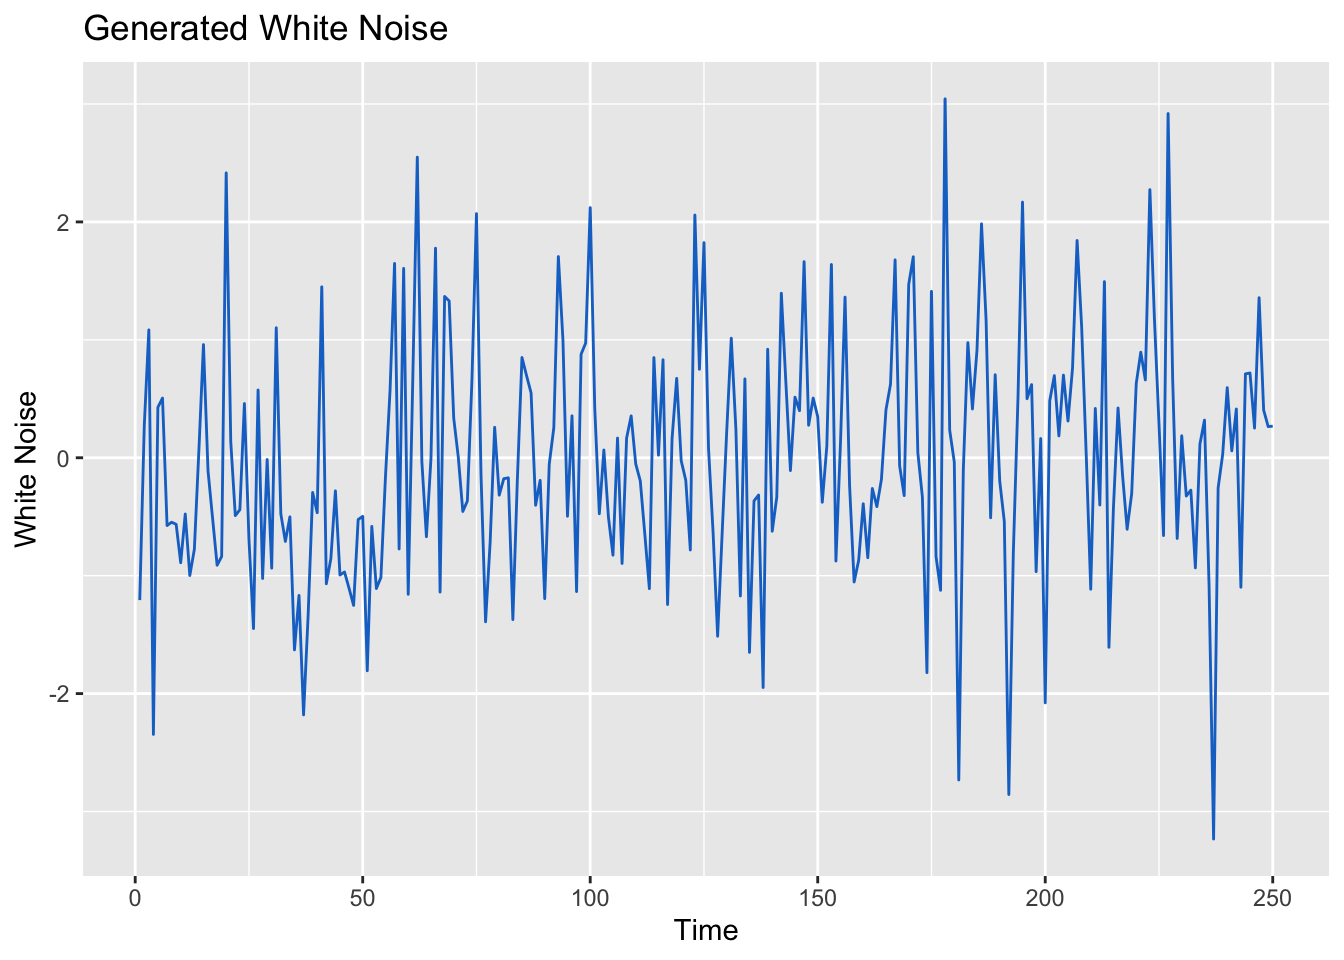
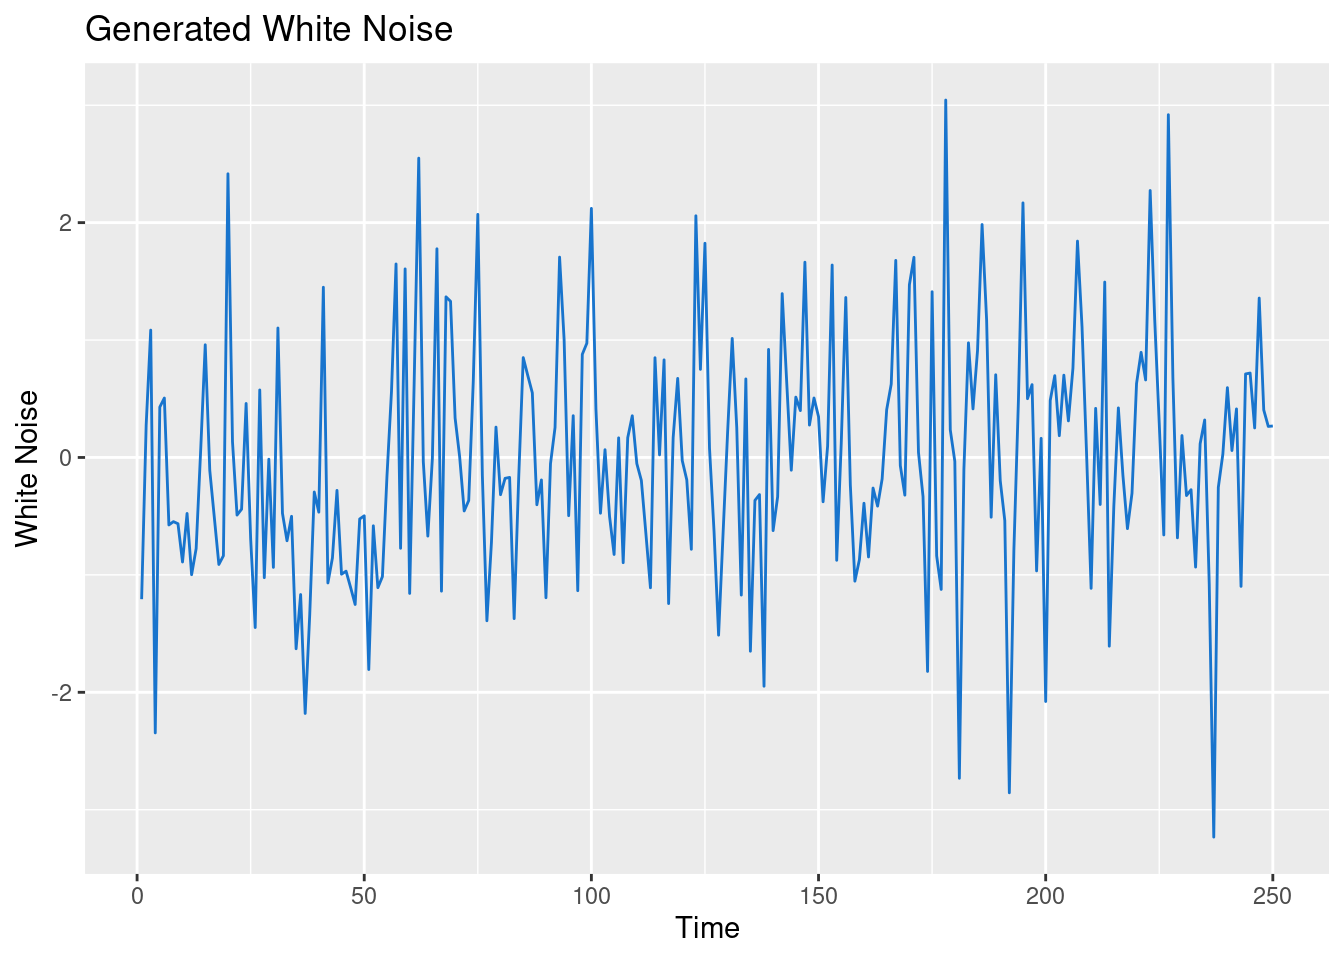
small changes due to change of quarto

diff --git a/docs/posts/autocorrelation/index.html b/docs/posts/autocorrelation/index.html
@@ -236,7 +236,7 @@ code span.wa { color: #60a0b0; font-weight: bold; font-style: italic; } /* Warni
 <p>This post is to set up the basic concepts of time-series analysis.</p>
 <section id="autocovariance-autocorrelation" class="level1">
 <h1>Autocovariance &amp; autocorrelation</h1>
-<p>Auto-correlation as the name indicates is the correlation of the time-series with itself, more specifically with a lag version of itself.</p>
+<p>Autocorrelation as the name indicates is the correlation of the time-series with itself, more specifically with a lag version of itself.</p>
 <p>Let’s consider <span class="math inline">\(\{X_t\}\)</span> a time series.</p>
 <ul>
 <li>Then the mean function of <span class="math inline">\(\{X_t\}\)</span> (the first moment) is defined as <span class="math inline">\(\mu_t = \textbf{E}(X_t)\)</span>. In other words, <span class="math inline">\(\mu_t\)</span> is the expected value of the time series at point t.<br>
@@ -244,7 +244,7 @@ code span.wa { color: #60a0b0; font-weight: bold; font-style: italic; } /* Warni
 <li>The Variance of the time series is defined as <span class="math inline">\(\sigma_t ^2 = Var(X_t) = \textbf{E}[(X_t - \mu_t)^2]\)</span>.</li>
 <li>In general, <span class="math inline">\(\mu_t\)</span> and <span class="math inline">\(\sigma_t ^2\)</span> are different at different point in time.</li>
 </ul>
-<p>Now, we define the <strong>auto-covariance</strong> function of the time series as <span class="math display">\[\gamma(s, t) = Cov(X_s, X_t) = \textbf{E}[(X_s - \mu_s)(X_t - \mu_t)]\]</span>. In the same vein, we define the <strong>auto-correlation</strong> function of the time series as <span class="math display">\[\rho(s,t) = Corr(X_s, X_t) = \frac {\gamma (s, t)}{\sigma_s \sigma_t} = \frac{Cov(X_s, X_t)}{\sqrt{Var(X_s) Var(X_t)}}\]</span></p>
+<p>Now, we define the <strong>autocovariance</strong> function of the time series as <span class="math display">\[\gamma(s, t) = Cov(X_s, X_t) = \textbf{E}[(X_s - \mu_s)(X_t - \mu_t)]\]</span>. In the same vein, we define the <strong>autocorrelation</strong> function of the time series as <span class="math display">\[\rho(s,t) = Corr(X_s, X_t) = \frac {\gamma (s, t)}{\sigma_s \sigma_t} = \frac{Cov(X_s, X_t)}{\sqrt{Var(X_s) Var(X_t)}}\]</span></p>
 <p>Autocovariance and autocorrelation measure the linear correlation between between two points <span class="math inline">\(X_s\)</span> and <span class="math inline">\(X_t\)</span> on the same time-series.</p>
 <p>Few properties of autocavariance and autocorrelation of time-series</p>
 <ul>
@@ -342,7 +342,7 @@ Autocorrelations of series 'milk$milk_prod_per_cow_kg', by lag
 <section id="white-noise" class="level1">
 <h1>White Noise</h1>
 <p>White noise is a special type of time-series and a special case of stationarity. The concept emerge when studying <strong>Random Walk</strong>. <span class="math inline">\(\{X_t\}\)</span> is a random-walk if it satisfies the equation:</p>
-<p><span class="math display">\[X_t = X_{t-1} + W_t\]</span> (<strong>?@eq-rw1</strong>) where <span class="math inline">\(\{W_t\}\)</span> is a white-noise. In other words, <span class="math inline">\(W_t \sim iid N(0, \sigma_w^2)\)</span></p>
+<p><span id="eq-rw1"><span class="math display">\[X_t = X_{t-1} + W_t \tag{1}\]</span></span> where <span class="math inline">\(\{W_t\}\)</span> is a white-noise. In other words, <span class="math inline">\(W_t \sim iid N(0, \sigma_w^2)\)</span></p>
 <p><span class="math inline">\(\{W_t\}\)</span> is a white-noise if</p>
 <ul>
 <li><span class="math inline">\(E[W_t] = \mu\)</span> is a constant for all t</li>

diff --git a/docs/posts/markov-chains/index.html b/docs/posts/markov-chains/index.html
@@ -2,7 +2,7 @@
 <html xmlns="http://www.w3.org/1999/xhtml" lang="en" xml:lang="en"><head>
 
 <meta charset="utf-8">
-<meta name="generator" content="quarto-1.2.269">
+<meta name="generator" content="quarto-1.2.313">
 
 <meta name="viewport" content="width=device-width, initial-scale=1.0, user-scalable=yes">
 
@@ -605,6 +605,8 @@ window.document.addEventListener("DOMContentLoaded", function (event) {
     }
   }
 });
+</script>
+<script src="https://giscus.app/client.js" data-repo="fderyckel/fderyckel.github.io" data-repo-id="R_kgDOIWAxjA" data-category="General" data-category-id="DIC_kwDOIWAxjM4CWAZU" data-mapping="title" data-reactions-enabled="1" data-emit-metadata="0" data-input-position="top" data-theme="light" data-lang="en" crossorigin="anonymous" async="">
 </script>
 </div> <!-- /content -->
 

diff --git a/docs/posts/portfolio_optimization_parti_inR/index.html b/docs/posts/portfolio_optimization_parti_inR/index.html
@@ -2,7 +2,7 @@
 <html xmlns="http://www.w3.org/1999/xhtml" lang="en" xml:lang="en"><head>
 
 <meta charset="utf-8">
-<meta name="generator" content="quarto-1.2.269">
+<meta name="generator" content="quarto-1.2.313">
 
 <meta name="viewport" content="width=device-width, initial-scale=1.0, user-scalable=yes">
 
@@ -608,6 +608,8 @@ window.document.addEventListener("DOMContentLoaded", function (event) {
     }
   }
 });
+</script>
+<script src="https://giscus.app/client.js" data-repo="fderyckel/fderyckel.github.io" data-repo-id="R_kgDOIWAxjA" data-category="General" data-category-id="DIC_kwDOIWAxjM4CWAZU" data-mapping="title" data-reactions-enabled="1" data-emit-metadata="0" data-input-position="top" data-theme="light" data-lang="en" crossorigin="anonymous" async="">
 </script>
 </div> <!-- /content -->
 

diff --git a/docs/posts/xgboost-time-series/index.html b/docs/posts/xgboost-time-series/index.html
@@ -2,7 +2,7 @@
 <html xmlns="http://www.w3.org/1999/xhtml" lang="en" xml:lang="en"><head>
 
 <meta charset="utf-8">
-<meta name="generator" content="quarto-1.2.269">
+<meta name="generator" content="quarto-1.2.313">
 
 <meta name="viewport" content="width=device-width, initial-scale=1.0, user-scalable=yes">
 
@@ -767,6 +767,8 @@ window.document.addEventListener("DOMContentLoaded", function (event) {
     }
   }
 });
+</script>
+<script src="https://giscus.app/client.js" data-repo="fderyckel/fderyckel.github.io" data-repo-id="R_kgDOIWAxjA" data-category="General" data-category-id="DIC_kwDOIWAxjM4CWAZU" data-mapping="title" data-reactions-enabled="1" data-emit-metadata="0" data-input-position="top" data-theme="light" data-lang="en" crossorigin="anonymous" async="">
 </script>
 </div> <!-- /content -->
 

diff --git a/docs/index.html b/docs/index.html
@@ -882,7 +882,7 @@ Francois de Ryckel
 </a>
 </div>
 </div>
-<div class="quarto-post image-right" data-index="16" data-categories="time-series" data-listing-date-sort="1664384400000" data-listing-file-modified-sort="1687190616139" data-listing-reading-time-sort="3.675">
+<div class="quarto-post image-right" data-index="16" data-categories="time-series" data-listing-date-sort="1664384400000" data-listing-file-modified-sort="1687334909537" data-listing-reading-time-sort="3.675">
 <div class="thumbnail">
 <a href="./posts/autocorrelation/index.html">
 <div class="thumbnail-image">

diff --git a/docs/posts/kmeans-intro/index.html b/docs/posts/kmeans-intro/index.html
@@ -2,7 +2,7 @@
 <html xmlns="http://www.w3.org/1999/xhtml" lang="en" xml:lang="en"><head>
 
 <meta charset="utf-8">
-<meta name="generator" content="quarto-1.2.475">
+<meta name="generator" content="quarto-1.2.313">
 
 <meta name="viewport" content="width=device-width, initial-scale=1.0, user-scalable=yes">
 

diff --git a/docs/posts/kmeans-regime-change/index.html b/docs/posts/kmeans-regime-change/index.html
@@ -2,7 +2,7 @@
 <html xmlns="http://www.w3.org/1999/xhtml" lang="en" xml:lang="en"><head>
 
 <meta charset="utf-8">
-<meta name="generator" content="quarto-1.2.269">
+<meta name="generator" content="quarto-1.2.313">
 
 <meta name="viewport" content="width=device-width, initial-scale=1.0, user-scalable=yes">
 

diff --git a/docs/posts/lin-algebra-quant/index.html b/docs/posts/lin-algebra-quant/index.html
@@ -2,7 +2,7 @@
 <html xmlns="http://www.w3.org/1999/xhtml" lang="en" xml:lang="en"><head>
 
 <meta charset="utf-8">
-<meta name="generator" content="quarto-1.2.269">
+<meta name="generator" content="quarto-1.2.313">
 
 <meta name="viewport" content="width=device-width, initial-scale=1.0, user-scalable=yes">
 

diff --git a/docs/posts/linear-regression/index.html b/docs/posts/linear-regression/index.html
@@ -2,7 +2,7 @@
 <html xmlns="http://www.w3.org/1999/xhtml" lang="en" xml:lang="en"><head>
 
 <meta charset="utf-8">
-<meta name="generator" content="quarto-1.2.269">
+<meta name="generator" content="quarto-1.2.313">
 
 <meta name="viewport" content="width=device-width, initial-scale=1.0, user-scalable=yes">
 

diff --git a/docs/posts/naives-bayes-intro/index.html b/docs/posts/naives-bayes-intro/index.html
@@ -2,7 +2,7 @@
 <html xmlns="http://www.w3.org/1999/xhtml" lang="en" xml:lang="en"><head>
 
 <meta charset="utf-8">
-<meta name="generator" content="quarto-1.2.475">
+<meta name="generator" content="quarto-1.2.313">
 
 <meta name="viewport" content="width=device-width, initial-scale=1.0, user-scalable=yes">
 

diff --git a/docs/posts/normality-returns/index.html b/docs/posts/normality-returns/index.html
@@ -2,7 +2,7 @@
 <html xmlns="http://www.w3.org/1999/xhtml" lang="en" xml:lang="en"><head>
 
 <meta charset="utf-8">
-<meta name="generator" content="quarto-1.2.475">
+<meta name="generator" content="quarto-1.2.313">
 
 <meta name="viewport" content="width=device-width, initial-scale=1.0, user-scalable=yes">
 

diff --git a/docs/posts/proba-quant/index.html b/docs/posts/proba-quant/index.html
@@ -2,7 +2,7 @@
 <html xmlns="http://www.w3.org/1999/xhtml" lang="en" xml:lang="en"><head>
 
 <meta charset="utf-8">
-<meta name="generator" content="quarto-1.2.269">
+<meta name="generator" content="quarto-1.2.313">
 
 <meta name="viewport" content="width=device-width, initial-scale=1.0, user-scalable=yes">
 
